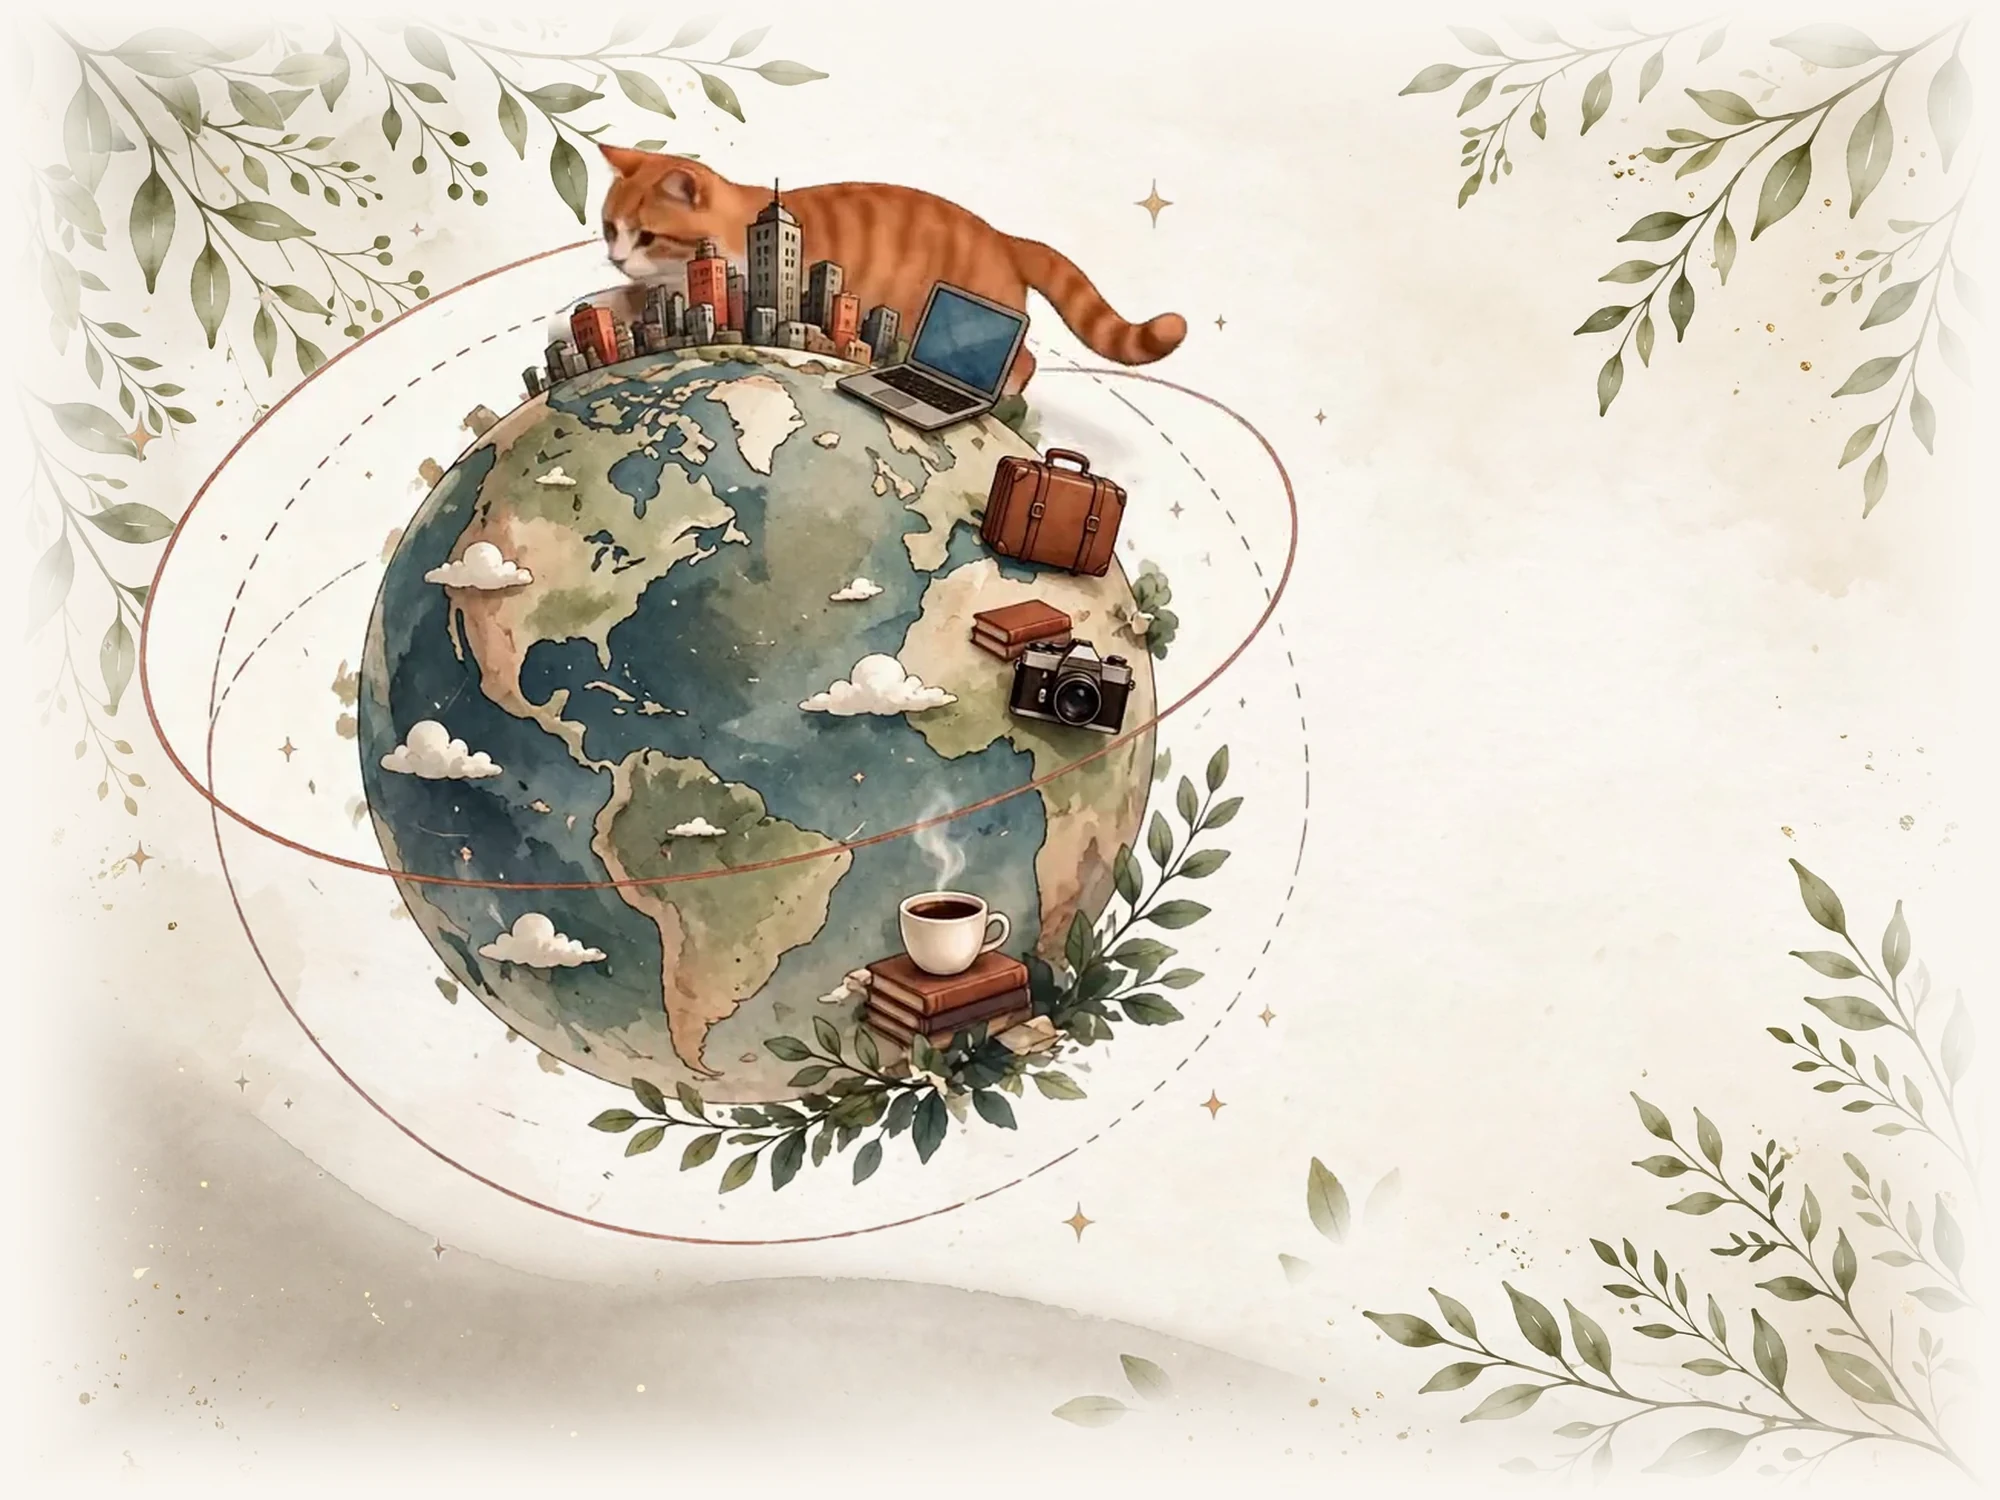
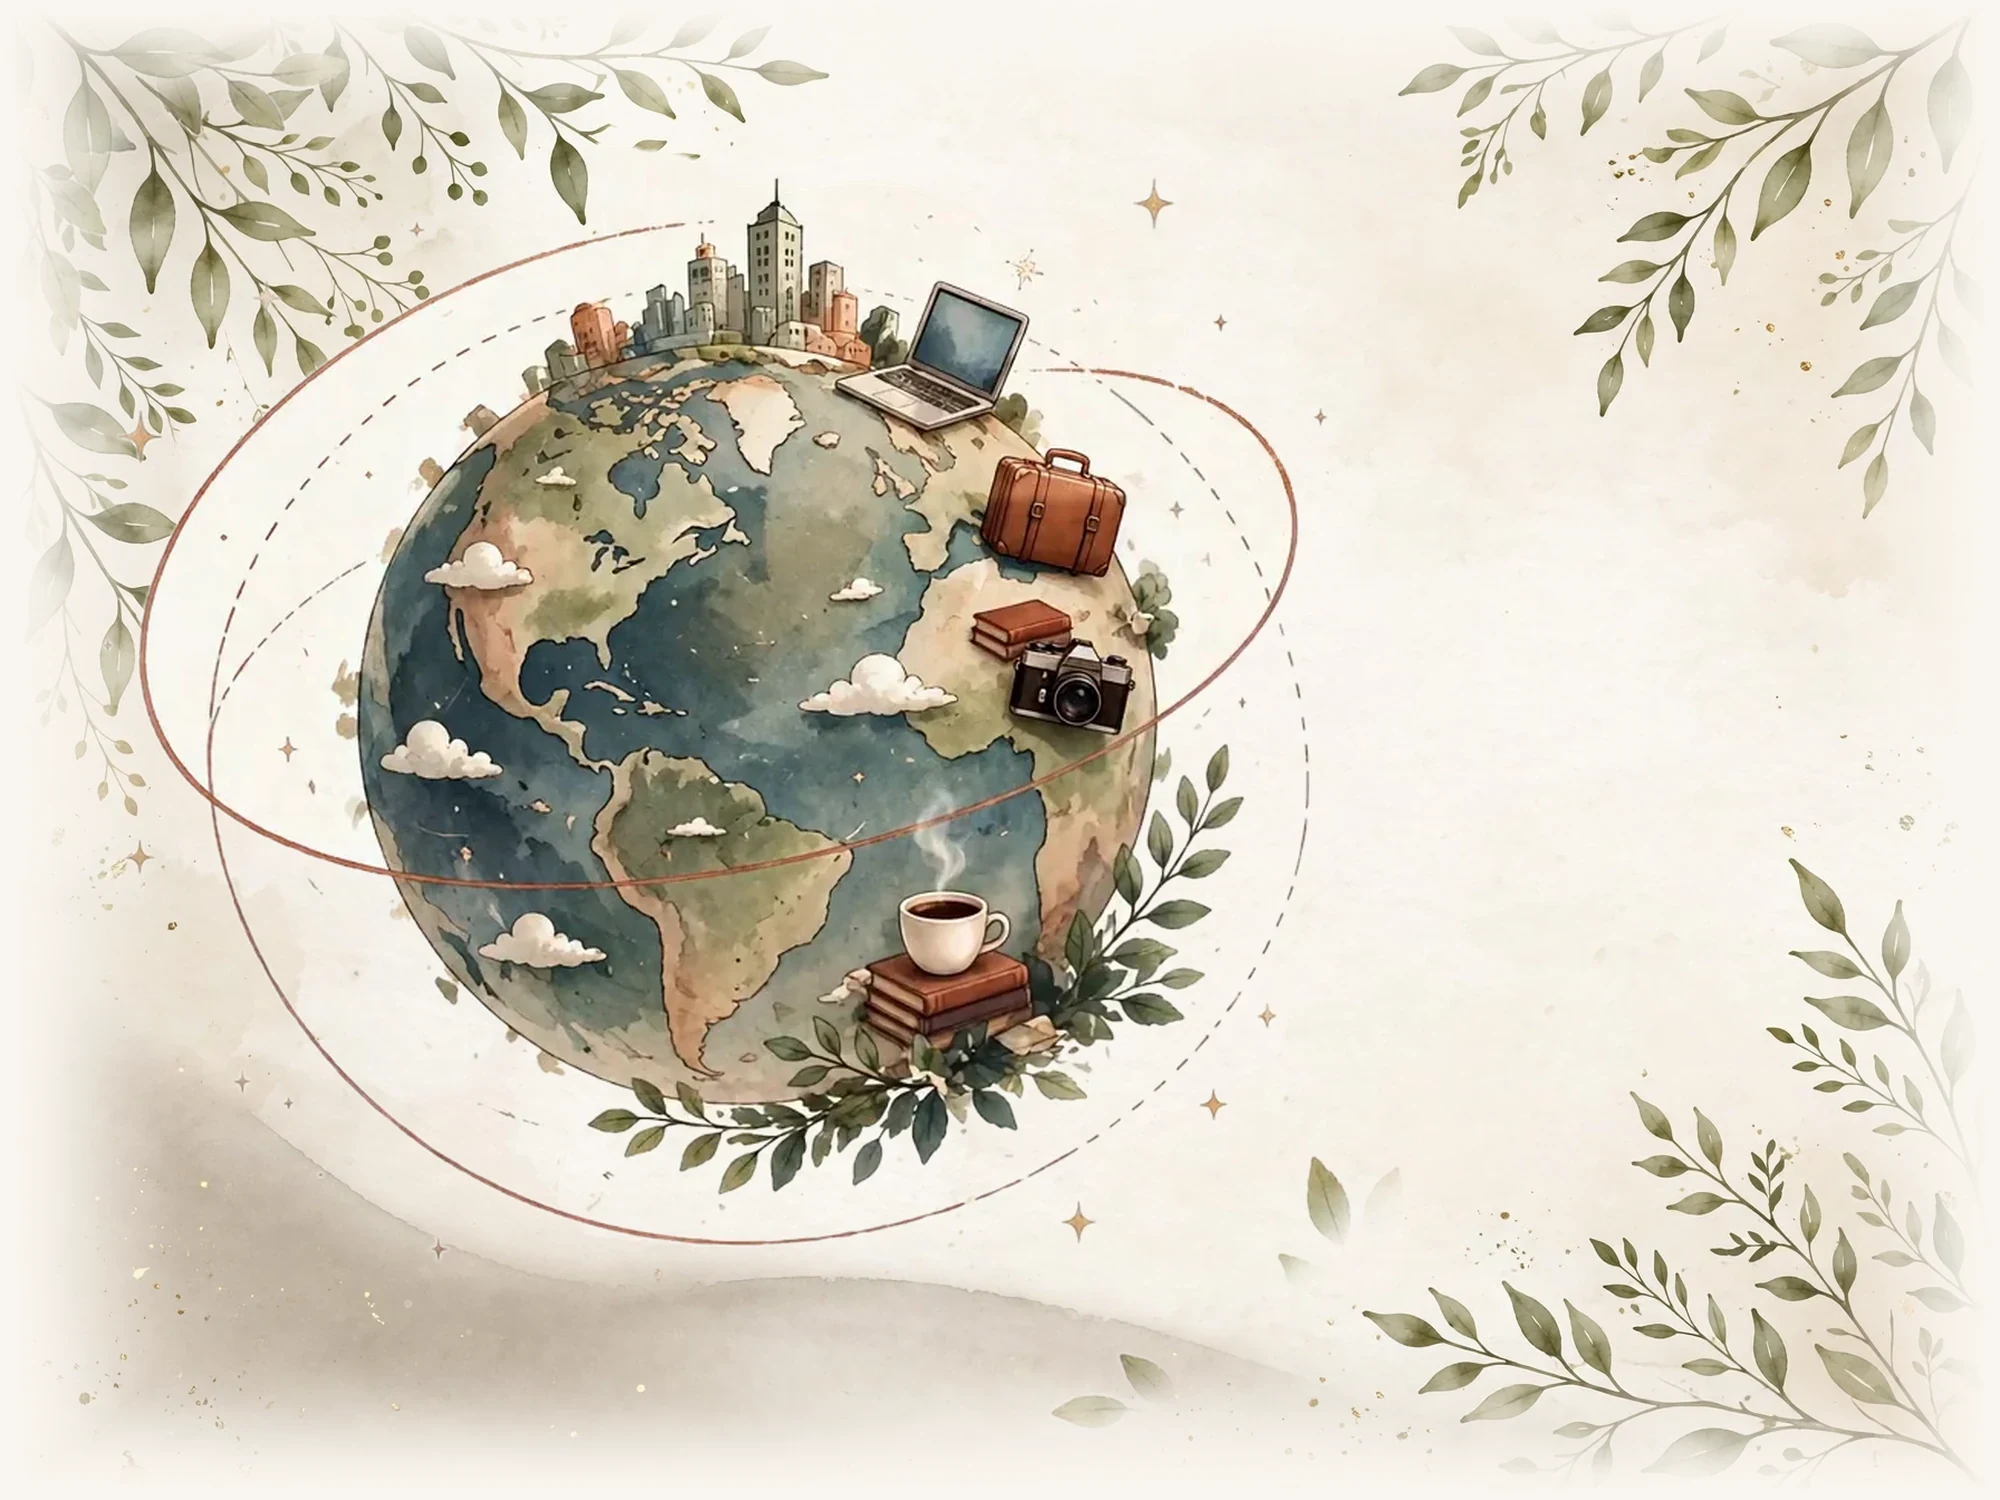
Welcome gate: one cat everywhere — cat-less globe paintings + sequenced cream-dip settle
- Hero paintings rebuilt at the asset level: the globe no longer has a
  cat draped on top, so the sitting cat beside the greeting is the
  single cat of the whole gate story.
- Settle is now sequenced instead of cross-blended: the intro overlay
  fades out in 350ms and unmounts at 400ms, while the hero plate stays
  at opacity 0 for 300ms and then fades in over 600ms. The crossover
  passes through the gate's plain cream, so the video's last frame and
  the hero's cat never ghost into one two-cat frame.

Changed region(s): [[0.248, 0.092, 0.62, 0.3373]]

diff --git a/components/WelcomeGate.tsx b/components/WelcomeGate.tsx
@@ -167,12 +167,15 @@ export default function WelcomeGate() {
     return () => window.clearTimeout(id);
   }, [phase, reducedMotion]);
 
-  // Once settled, the intro overlay fades out over 500ms; unmount it
+  // Once settled, the intro overlay fades out over 350ms; unmount it
   // just after the fade so it leaves the hero fully interactive.
-  // Reduced-motion visitors never render the overlay at all.
+  // The hero plate's own fade-in is delayed (see its className), so
+  // the crossover passes through the gate's plain cream — the two
+  // scenes never blend into one frame. Reduced-motion visitors never
+  // render the overlay at all.
   useEffect(() => {
     if (!settled || reducedMotion) return;
-    const id = window.setTimeout(() => setOverlayGone(true), 550);
+    const id = window.setTimeout(() => setOverlayGone(true), 400);
     return () => window.clearTimeout(id);
   }, [settled, reducedMotion]);
 
@@ -376,7 +379,7 @@ export default function WelcomeGate() {
                 contains NO sitting cat — the live two-layer cat stack
                 below is registered over its lower-left. */}
             <div
-              className={`relative mx-auto aspect-square w-[min(96vw,560px)] transition-opacity duration-700 motion-reduce:transition-none lg:aspect-[4/3] lg:w-[min(100%,114vh)] ${
+              className={`relative mx-auto aspect-square w-[min(96vw,560px)] transition-opacity duration-[600ms] delay-[300ms] motion-reduce:transition-none lg:aspect-[4/3] lg:w-[min(100%,114vh)] ${
                 settled ? "opacity-100" : "opacity-0"
               }`}
             >
@@ -561,8 +564,11 @@ export default function WelcomeGate() {
           (see sessionLocked): the poster still with the
           silhouette-masked video on top and the Skip
           button, in the centered square stage the intro has always
-          had. On settle it fades out over 500ms and then unmounts
-          (see the overlayGone effect), dissolving into the hero.
+          had. On settle it fades out over 350ms and then unmounts
+          (see the overlayGone effect); the hero plate underneath
+          starts its own fade-in only as the overlay is nearly gone,
+          so the sequence dips through the gate's cream instead of
+          cross-blending the two scenes.
           Reduced-motion visitors never see it; back-from-game lands
           on the hero directly because the overlay is long gone. */}
       {screen === "welcome" &&
@@ -570,7 +576,7 @@ export default function WelcomeGate() {
         !reducedMotion &&
         !overlayGone && (
         <div
-          className={`absolute inset-0 z-10 flex items-center justify-center transition-opacity duration-500 motion-reduce:transition-none ${
+          className={`absolute inset-0 z-10 flex items-center justify-center transition-opacity duration-[350ms] motion-reduce:transition-none ${
             settled ? "pointer-events-none opacity-0" : "opacity-100"
           }`}
         >
